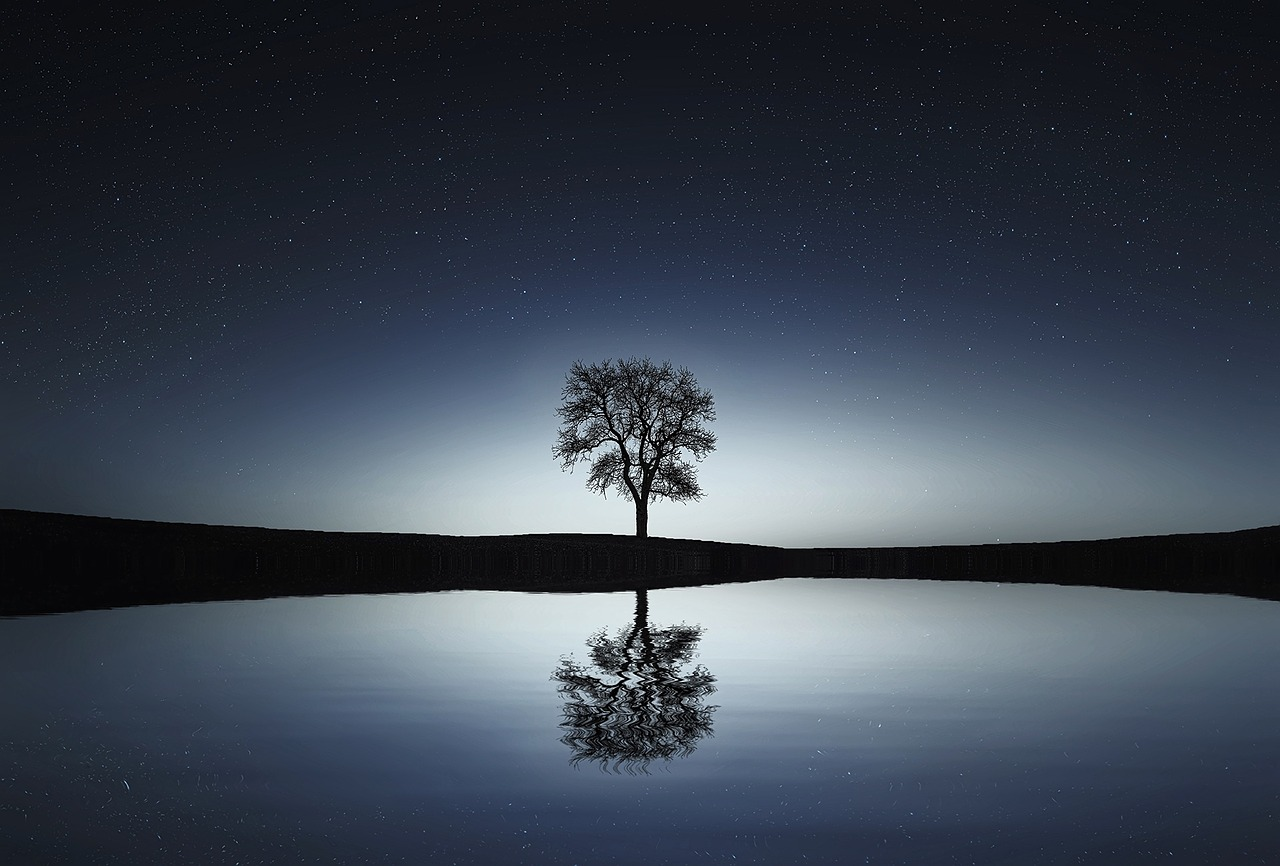
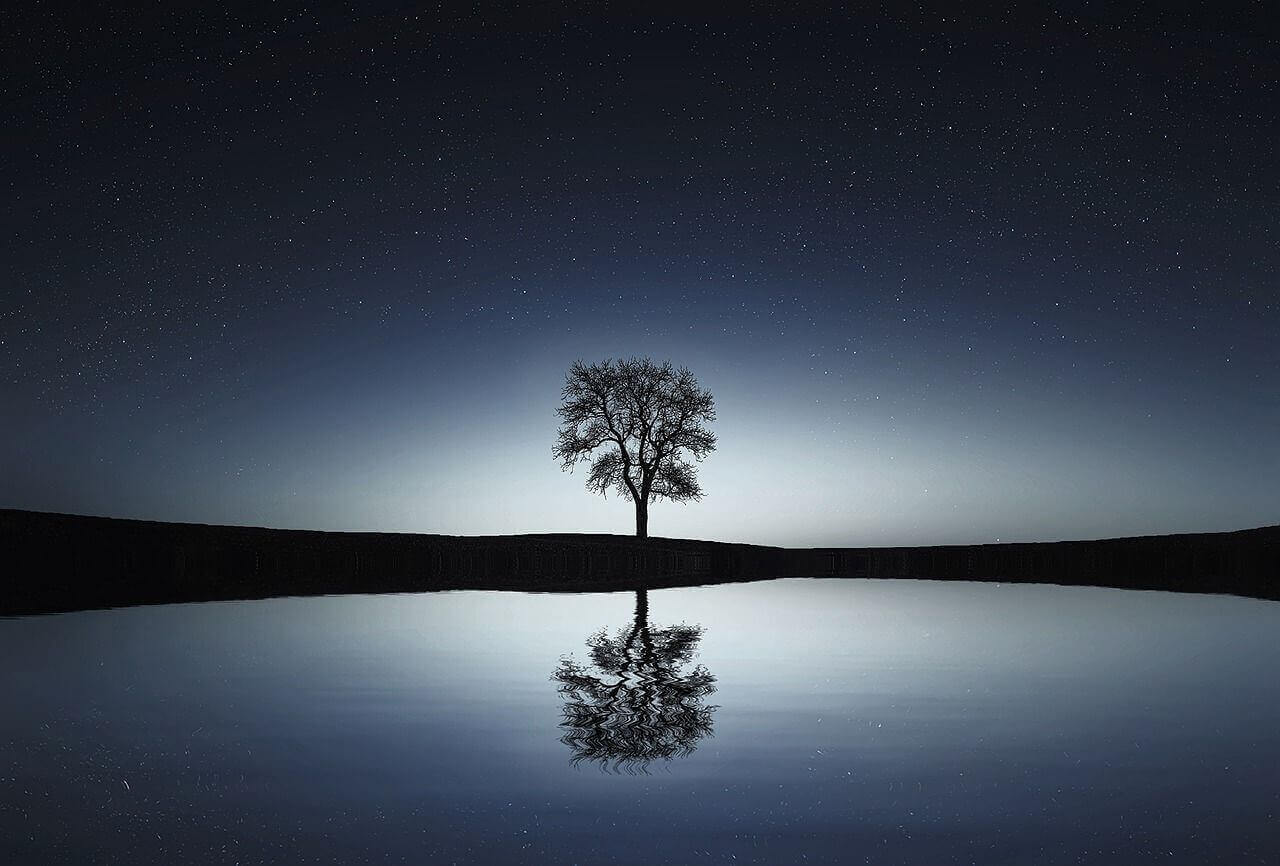
website optimized

Changed region(s): [[0.4375, 0.4365, 0.5625, 0.5924], [0.4375, 0.7171, 0.5312, 0.8418]]

diff --git a/index.html b/index.html
@@ -130,7 +130,7 @@
                      <div class="col-xs-12 col-sm-6 col-md-4 col-lg-3">
                          <div class="project_card">
                              <div class="content_overlay">
-                                <div class="project_img"><img src="images/project_screenshots/8.png" class="img-responsive"></div>
+                                <div class="project_img"><img src="images/project_screenshots/8.jpg" class="img-responsive"></div>
                                 <div class="container project_container">
                                     <h1 class="project_heading">Drawing App</h1>
                                     <p class="project_description">
@@ -159,7 +159,7 @@
                      <div class="col-xs-12 col-sm-6 col-md-4 col-lg-3">
                          <div class="project_card">
                             <div class="content_overlay">
-                                <div class="project_img"><img src="images/project_screenshots/7.png" class="img-responsive"></div>
+                                <div class="project_img"><img src="images/project_screenshots/7.jpg" class="img-responsive"></div>
                                 <div class="container project_container">
                                     <h1 class="project_heading">Stopwatch</h1>
                                     <p class="project_description">
@@ -188,7 +188,7 @@
                      <div class="col-xs-12 col-sm-6 col-md-4 col-lg-3">
                          <div class="project_card">
                              <div class="content_overlay">
-                                <div class="project_img"><img src="images/project_screenshots/6.png" class="img-responsive"></div>
+                                <div class="project_img"><img src="images/project_screenshots/6.jpg" class="img-responsive"></div>
                                 <div class="container project_container">
                                     <h1 class="project_heading">Web Development Course</h1>
                                     <p class="project_description">Web Development Course website is a prototype version of actual E-learning website. It is a responsive website with scroll-spy and carousel effect.</p>
@@ -215,7 +215,7 @@
                      <div class="col-xs-12 col-sm-6 col-md-4 col-lg-3">
                          <div class="project_card">
                              <div class="content_overlay">
-                                <div class="project_img"><img src="images/project_screenshots/5.png" class="img-responsive"></div>
+                                <div class="project_img"><img src="images/project_screenshots/5.jpg" class="img-responsive"></div>
                                 <div class="container project_container">
                                     <h1 class="project_heading">Company Website</h1>
                                     <p class="project_description">Company Website is a great example of a responsive website with easy navigation facility. It contains an attractive and responsive design for all device sizes with the use of media queries.</p>
@@ -243,7 +243,7 @@
                      <div class="col-xs-12 col-sm-6 col-md-4 col-lg-3">
                          <div class="project_card">
                              <div class="content_overlay">
-                                <div class="project_img"><img src="images/project_screenshots/4.png" class="img-responsive"></div>
+                                <div class="project_img"><img src="images/project_screenshots/4.jpg" class="img-responsive"></div>
                                 <div class="container project_container">
                                     <h1 class="project_heading">App landing page</h1>
                                     <p class="project_description">App landing page is a great responsive website build using latest Bootstrap3 technology. Each section of the page automatically resizes according to window screen and does not overlap each other. It is compatible with all browsers and screen sizes.</p>
@@ -271,7 +271,7 @@
                      <div class="col-xs-12 col-sm-6 col-md-4 col-lg-3">
                          <div class="project_card">
                              <div class="content_overlay">
-                                <div class="project_img"><img src="images/project_screenshots/3.png" class="img-responsive"></div>
+                                <div class="project_img"><img src="images/project_screenshots/3.jpg" class="img-responsive"></div>
                                 <div class="container project_container">
                                     <h1 class="project_heading">Fruits Slice Game</h1>
                                     <p class="project_description">Fruits Slice game is a replica of the famous game "Fruit Ninja". User requires hovering the mouse on fruits dropping down. Each session of game provides 3 life-lines and then the game ends. Also, speed of fruits dropping down is set to random.</p>
@@ -299,7 +299,7 @@
                      <div class="col-xs-12 col-sm-6 col-md-4 col-lg-3">
                          <div class="project_card">
                              <div class="content_overlay">
-                                <div class="project_img"><img src="images/project_screenshots/2.png" class="img-responsive"></div>
+                                <div class="project_img"><img src="images/project_screenshots/2.jpg" class="img-responsive"></div>
                                 <div class="container project_container">
                                     <h1 class="project_heading">Maths Game</h1>
                                     <p class="project_description">Math’s Game is a basic Web Application which allows users to enhance their multiplication skills. It generates random numbers between 1 - 10 and user needs to select 1 correct option out of 4 options provided. Each session of the game lasts for 60 seconds.</p>
@@ -327,7 +327,7 @@
                      <div class="col-xs-12 col-sm-6 col-md-4 col-lg-3">
                          <div class="project_card">
                              <div class="content_overlay">
-                                <div class="project_img"><img src="images/project_screenshots/1.png" class="img-responsive"></div>
+                                <div class="project_img"><img src="images/project_screenshots/1.jpg" class="img-responsive"></div>
                                 <div class="container project_container">
                                     <h1 class="project_heading">Maths Course</h1>
                                     <p class="project_description">Math’s Course Website is a prototype version of actual online tutorial website. It is a basic static website build using HTML5 and CSS3 components.</p>
